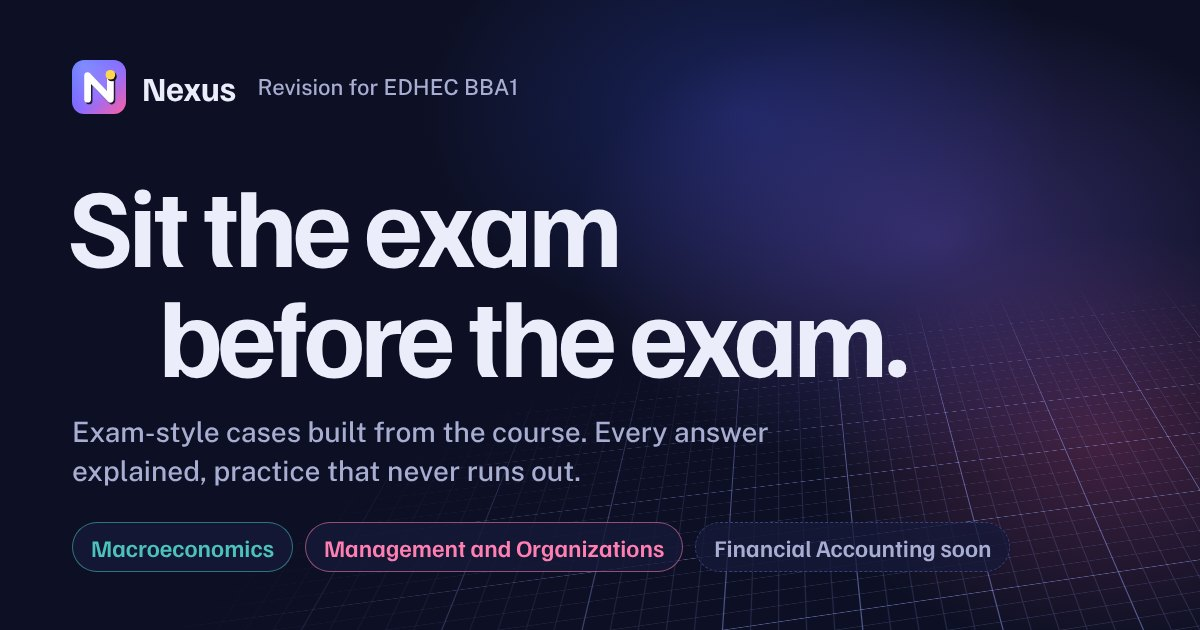
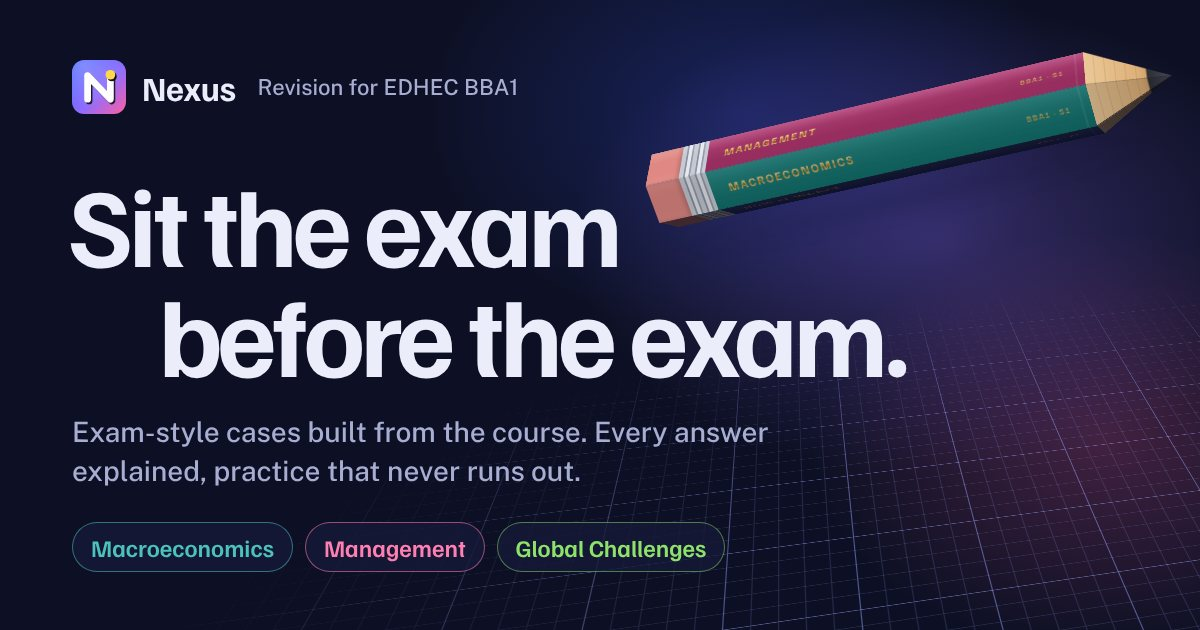
Image d'aperçu du hub avec le crayon et Global Challenges, page 404 avec le nouveau lab, descriptions à jour
Claude-Session: https://claude.ai/code/session_01M6UsDErUqyswvpCFQF8Xux

Changed region(s): [[0.5242, 0.0603, 0.9867, 0.3619], [0.37, 0.8143, 0.8325, 0.9048]]

diff --git a/404.html b/404.html
@@ -16,14 +16,14 @@
 :root{
   color-scheme:dark;
   --bg:#0D1024; --fg:#ECEDFA; --muted:#A8ADD2; --line:#2A3060; --line-2:#3A4178; --surface:#161A3A;
-  --grid:150 165 255; --pen:#FF6B6B; --macro:#4CC2BC; --mgmt:#FF7FB2;
+  --grid:150 165 255; --pen:#FF6B6B; --macro:#4CC2BC; --mgmt:#FF7FB2; --sgc:#8EE26B;
   --f-display:"Familjen Grotesk","Avenir Next","Segoe UI",system-ui,sans-serif;
   --f-body:"Public Sans","Segoe UI",system-ui,-apple-system,sans-serif;
 }
 :root[data-theme="light"]{
   color-scheme:light;
   --bg:#F5F6FB; --fg:#12142B; --muted:#565B78; --line:#D9DCEA; --line-2:#C2C6DB; --surface:#FFFFFF;
-  --grid:70 92 190; --pen:#C8322F; --macro:#0B7472; --mgmt:#B5386F;
+  --grid:70 92 190; --pen:#C8322F; --macro:#0B7472; --mgmt:#B5386F; --sgc:#3B7A18;
 }
 *{box-sizing:border-box}
 html,body{min-height:100%}
@@ -60,6 +60,7 @@ p{margin:0;color:var(--muted);max-width:52ch;font-size:1.06rem}
   <nav class="go" aria-label="Courses">
     <a href="/macro/" style="--c:var(--macro)"><b>Macroeconomics</b><span>Cases, tutorials, mock exam</span></a>
     <a href="/management/" style="--c:var(--mgmt)"><b>Management and Organizations</b><span>Cases, labs, exam questions</span></a>
+    <a href="/global/" style="--c:var(--sgc)"><b>Societal and Global Challenges</b><span>Causal diagrams, key figures, mock exam</span></a>
     <a href="/" style="--c:var(--fg)"><b>All courses</b><span>The Nexus home page</span></a>
   </nav>
   <p class="legal">A student project to help with revision. Not an official EDHEC website.</p>

diff --git a/index.html b/index.html
@@ -4,7 +4,7 @@
 <meta charset="utf-8">
 <meta name="viewport" content="width=device-width,initial-scale=1,viewport-fit=cover">
 <title>Nexus · Revision for EDHEC BBA1</title>
-<meta name="description" content="Revision labs for EDHEC BBA1 courses (Macroeconomics, Management and Organizations): exam-style cases, every answer explained, practice that never runs out. Free, no account.">
+<meta name="description" content="Revision labs for EDHEC BBA1 courses (Macroeconomics, Management and Organizations, Societal and Global Challenges): exam-style cases, every answer explained, practice that never runs out. Free, no account.">
 <meta property="og:type" content="website">
 <meta property="og:site_name" content="Nexus">
 <meta property="og:url" content="https://nexus-revision-bba1.netlify.app/">
@@ -13,7 +13,7 @@
 <meta property="og:image" content="https://nexus-revision-bba1.netlify.app/og.jpg">
 <meta property="og:image:width" content="1200">
 <meta property="og:image:height" content="630">
-<meta property="og:image:alt" content="Nexus. Sit the exam before the exam. Macroeconomics, Management and Organizations.">
+<meta property="og:image:alt" content="Nexus. Sit the exam before the exam. A 3D pencil and three courses: Macroeconomics, Management, Global Challenges.">
 <meta name="twitter:card" content="summary_large_image">
 <meta name="theme-color" content="#0D1024">
 <link rel="icon" href="/favicon.svg" type="image/svg+xml">

diff --git a/CLAUDE.md b/CLAUDE.md
@@ -84,8 +84,8 @@ Chaque page est un fichier unique : CSS et JS dans la page. Seules dépendances 
 - Changement de thème : le nouveau thème s'étend en cercle depuis le bouton (`themeSwap`, transition de vue avec la classe `theme-vt`).
 - Fond de Management : aubergine → indigo nuit → baie profonde (sombre), papier rosé → lavande → abricot (clair).
 - Haut de page (hub, accueil Macroeconomics, accueil Management) : la scène bascule en arrière et s'efface quand on fait défiler (`heroTilt`).
-- Hub : tuiles dans l'ordre Macroeconomics, Management, puis Financial Accounting (bientôt). Au survol, la tuile Management montre une foule qui se range en organigramme.
-- Hub : « Pick up where you left off » lit `flow-v1` et `mgmt-v1` pour proposer de reprendre (un examen blanc en cours passe en premier, avec les minutes restantes) (la liste des cas Management et leur nombre d'étapes est recopiée dans le hub, à tenir à jour si on ajoute un cas).
+- Hub : les tuiles de secours sont dans l'ordre Macroeconomics, Management, Global Challenges. Au survol, la tuile Management montre une foule qui se range en organigramme.
+- Hub : « Pick up where you left off » lit `flow-v1`, `mgmt-v1` et `sgc-v1` pour proposer de reprendre (un examen blanc en cours passe en premier, avec les minutes restantes) (la liste des cas Management et leur nombre d'étapes est recopiée dans le hub, à tenir à jour si on ajoute un cas).
 - Le texte posé sur une pastille pleine verte ou rouge utilise `var(--bg)` (dans `.mod`, `--surface` est un verre transparent).
 
 ## Principes de contenu (ce qui fait la qualité du site)
